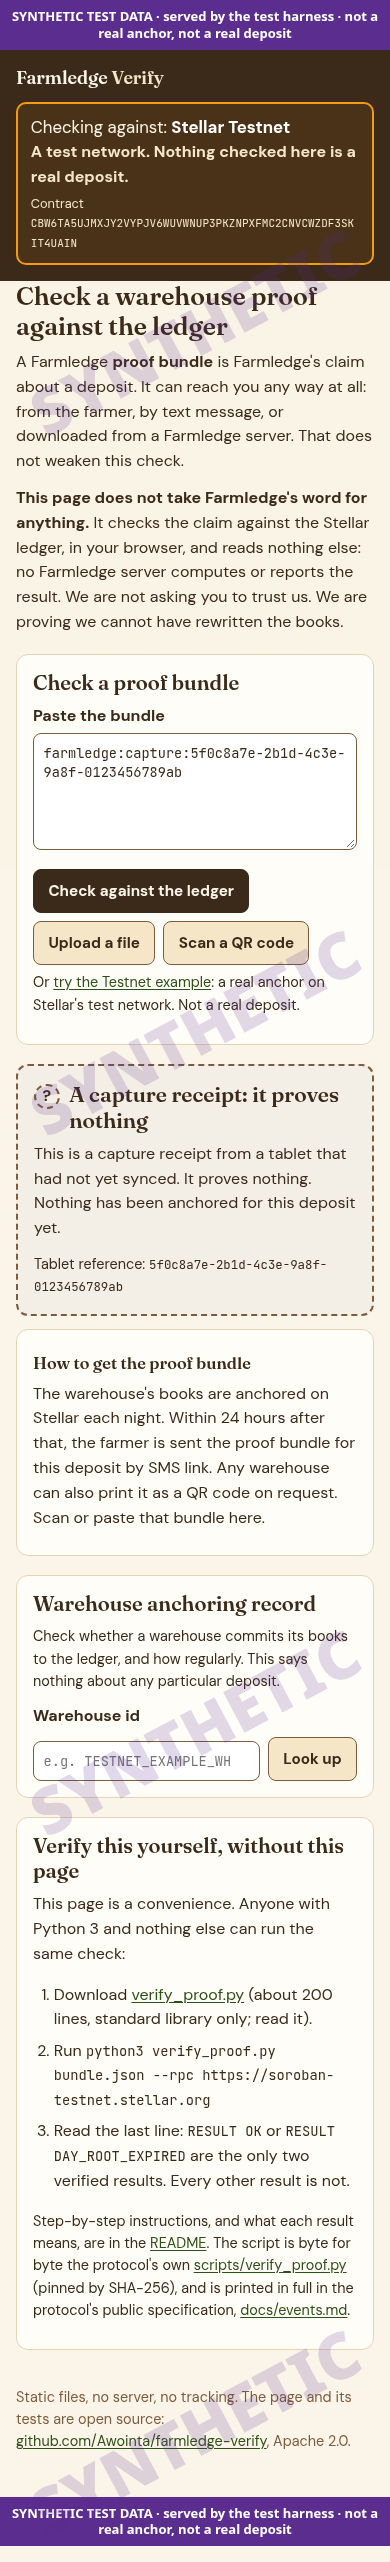
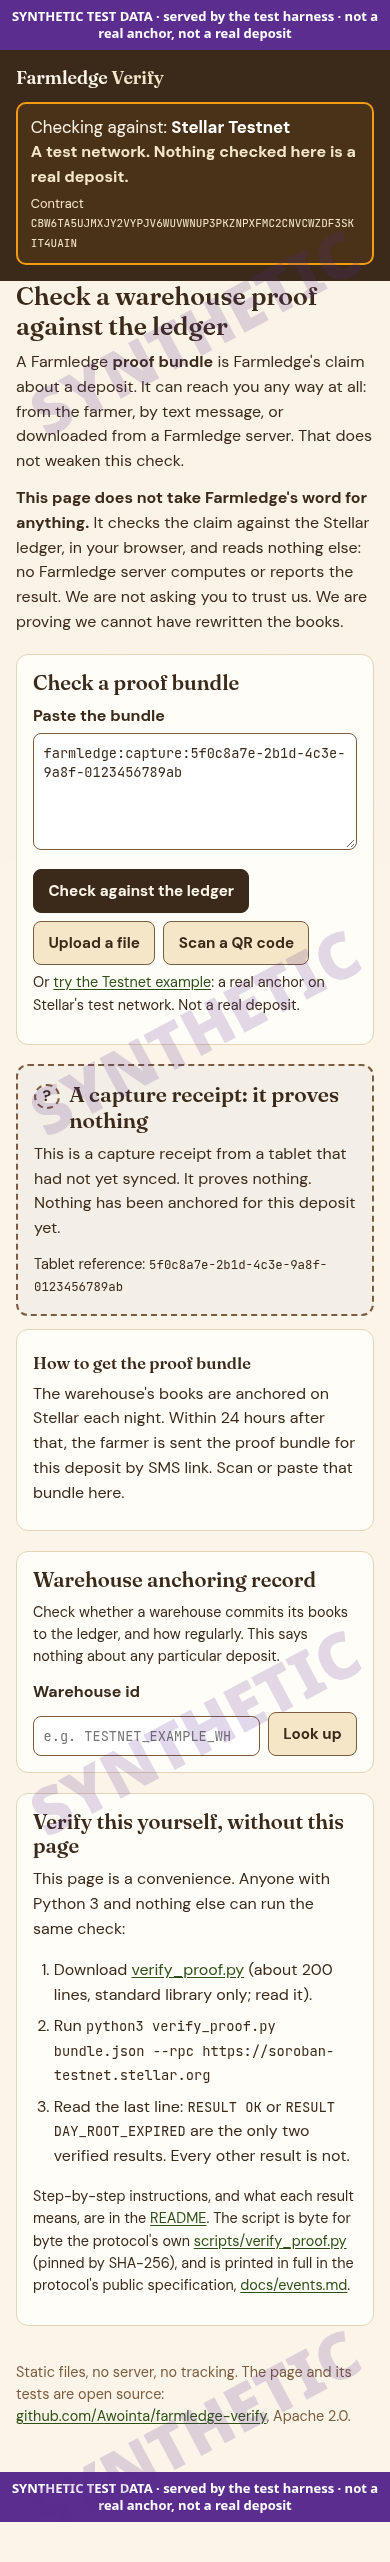
Remove a false claim: warehouses cannot print a bundle QR
The page said any warehouse can print the proof bundle as a QR code on
request. No warehouse can today: a reprinted slip carries the leaf only.
Put the sentence back once it is true.

Changed region(s): [[0.0, 0.5621, 1.0, 0.9992]]

diff --git a/src/render.js b/src/render.js
@@ -254,7 +254,7 @@ function leafView(v) {
 function howToGetBundle() {
   return h('section', { class: 'facts' },
     h('h3', null, 'How to get the proof bundle'),
-    h('p', null, "The warehouse's books are anchored on Stellar each night. Within 24 hours after that, the farmer is sent the proof bundle for this deposit by SMS link. Any warehouse can also print it as a QR code on request. Scan or paste that bundle here."));
+    h('p', null, "The warehouse's books are anchored on Stellar each night. Within 24 hours after that, the farmer is sent the proof bundle for this deposit by SMS link. Scan or paste that bundle here."));
 }
 
 function plainView(state, tone, iconName, headline, body) {
